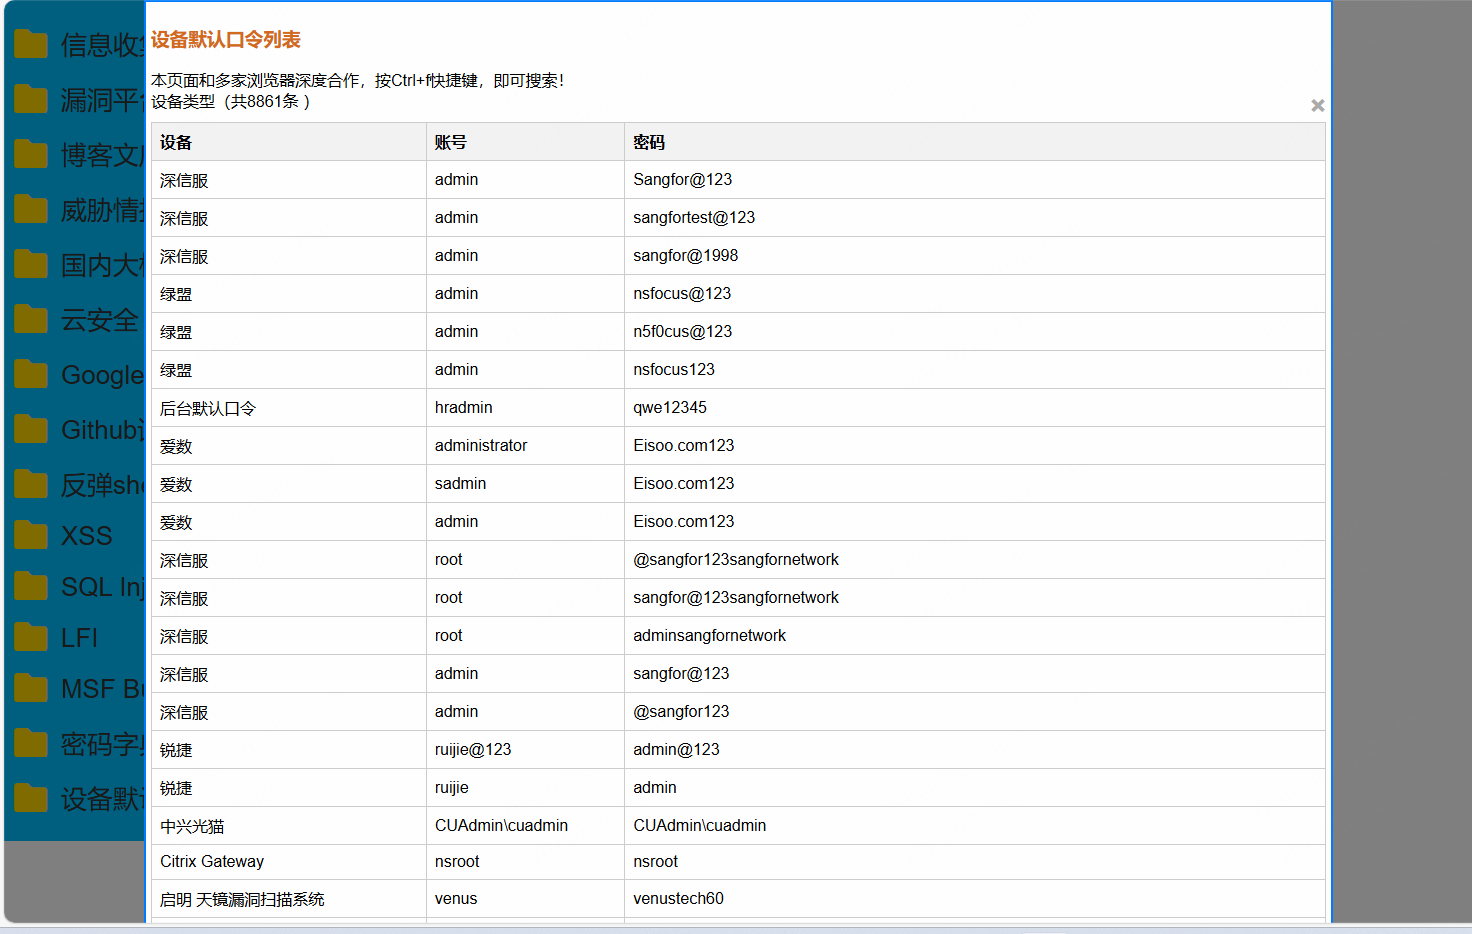
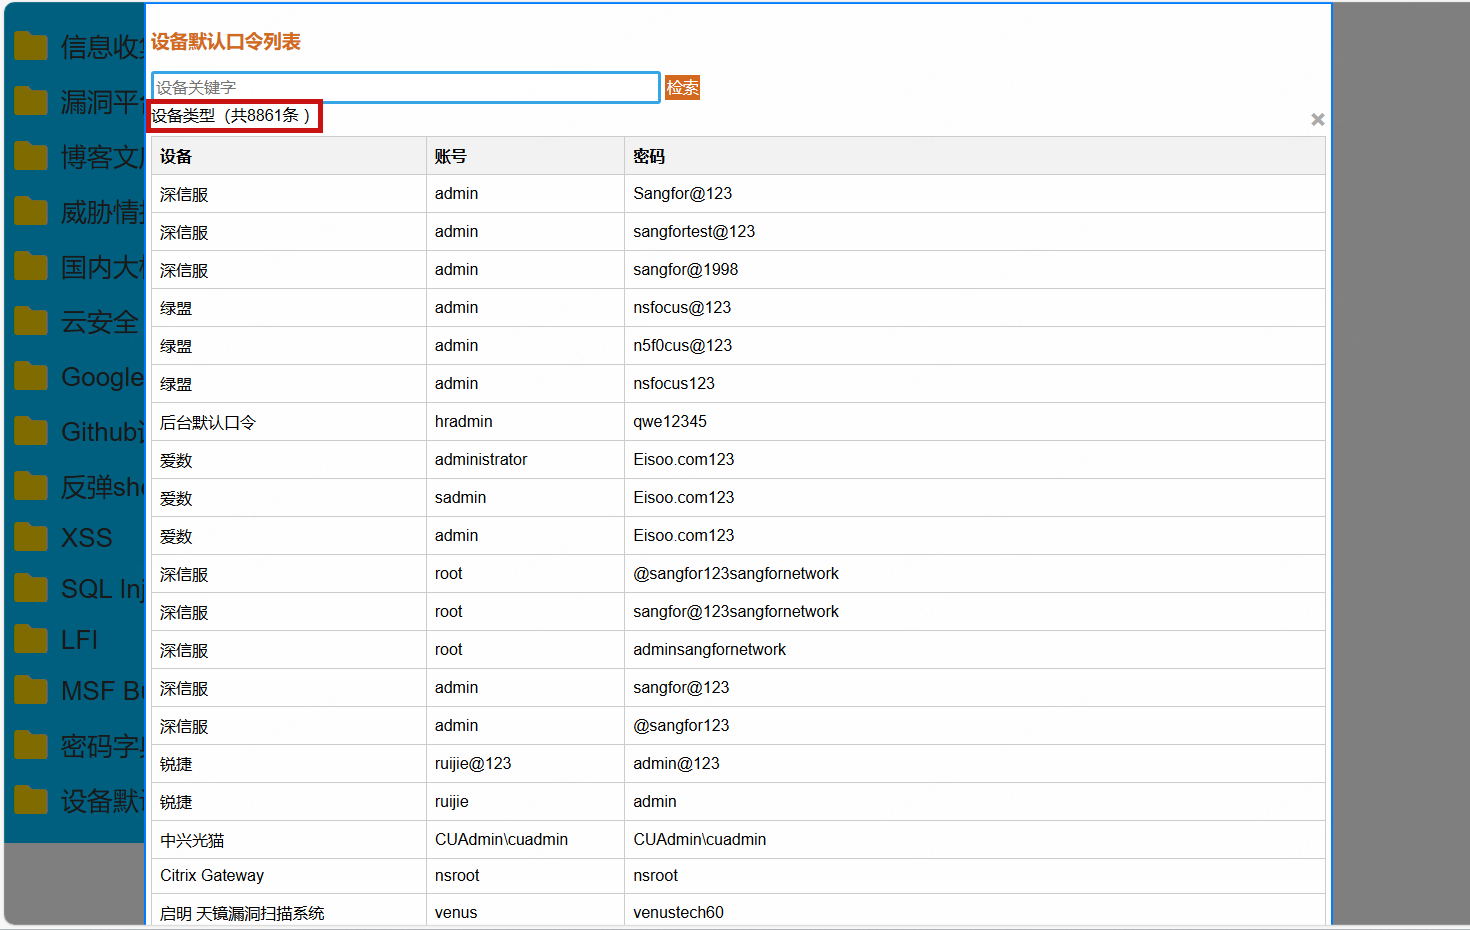
系统优化

Changed region(s): [[0.0, 0.0, 1.0, 1.0]]

diff --git a/static/js/common.js b/static/js/common.js
@@ -2843,3 +2843,51 @@ function closeModal5() {
     var modal5 = document.getElementById("modal5");
     modal5.style.display = "none";
 }
+
+// 通过关键字检索设备口令
+function opendevicepasswordbykeyfunc(){
+    var devicekeyvalue = document.getElementById("devicekeyvalue").value;
+    // 清空表格体中的所有行
+    const tableBody = document.querySelector('#data-table11 tbody');
+    tableBody.innerHTML = '';
+
+    $.ajax({
+        url: '/showdevicepasswordbykey/',
+        method: 'POST',
+        data: {
+            devicekeyvalue: devicekeyvalue
+        },
+        success: function (info) {
+            document.getElementById("deviceid1").innerHTML = info.device_new_list_len;
+
+            const tableBody = document.querySelector('#data-table11 tbody');
+
+            info.device_new_list.forEach(item => {
+                const row = document.createElement('tr'); // 创建新的行
+
+                // 创建单元格并填充数据
+                const idCell = document.createElement('td');
+                idCell.textContent = item.company;
+                row.appendChild(idCell);
+
+                const nameCell = document.createElement('td');
+                nameCell.textContent = item.username;
+                row.appendChild(nameCell);
+
+                const addrCell = document.createElement('td');
+                addrCell.textContent = item.password;
+                row.appendChild(addrCell);
+
+                tableBody.appendChild(row); // 将行添加到表格体中
+            });
+
+        },
+        error: function () {
+
+
+        },
+        complete: function () {
+
+        }
+    })
+}

diff --git a/templates/navigation.html b/templates/navigation.html
@@ -1767,7 +1767,8 @@
 
         <div class="modal-content1">
             <h3>设备默认口令列表</h3>
-            <span>本页面和多家浏览器深度合作，按Ctrl+f快捷键，即可搜索！</span><br>
+            <input type="text" class="my-input3" placeholder="设备关键字" value="" id="devicekeyvalue">
+            <span class="my-span" onclick="opendevicepasswordbykeyfunc()">检索</span><br>
             <span id="deviceid1"></span>
             <span class="close" onclick="closeModal5()">&times;</span>
             <table id="data-table11">

diff --git a/static/css/common.css b/static/css/common.css
@@ -45,12 +45,6 @@
 		}
 
 
-		/* input[type="text"] {
-			height: 40px;
-			width: 700px;
-			font-size: 20px;
-		} */
-
 		.my-input-text {
 			height: 40px;
 			width: 700px;
@@ -402,6 +396,12 @@
 		.my-input {
 			height: 25px;
 			width: 700px;
+			font-size: medium;
+		}
+
+		.my-input3 {
+			height: 25px;
+			width: 500px;
 			font-size: medium;
 		}
 

diff --git a/scan_main_web.py b/scan_main_web.py
@@ -6003,7 +6003,7 @@ def assets_byshodan():
     
 
 
-# 设备口令查看
+# 设备口令查询所有
 @app.route("/showdevicepassword/")
 def showdevicepassword():
     user = session.get('username')
@@ -6012,6 +6012,28 @@ def showdevicepassword():
         message_json = {
             "device_dict":device_dict,
             "device_dict_len":"设备类型（共"+str(len(device_dict))+"条 ）"
+        }
+        return jsonify(message_json)
+    else:
+        return render_template('login.html')
+    
+
+# 设备口令根据关键字查询
+@app.route("/showdevicepasswordbykey/",methods=['POST'])
+def showdevicepasswordbykey():
+    user = session.get('username')
+    if str(user) == main_username:
+        # 定义新的列表用于存放通过关键字检索的结果
+        device_new_list = []
+        devicekeyvalue = request.form['devicekeyvalue']
+        print(devicekeyvalue)
+        device_dict = basic.device_password_show()
+        for key1 in device_dict:
+            if str(devicekeyvalue) in str(key1):
+                device_new_list.append(key1)
+        message_json = {
+            "device_new_list":device_new_list,
+            "device_new_list_len":"设备类型（共"+str(len(device_new_list))+"条 ）"
         }
         return jsonify(message_json)
     else:

diff --git a/readme.md b/readme.md
@@ -464,4 +464,5 @@ icon_hash计算<br>
 shodan收集资产<br>
 <img src="https://raw.githubusercontent.com/huan-cdm/info_scan/main/images/shodancollectasset.png" /><br><br>
 设备默认口令<br>
-<img src="https://raw.githubusercontent.com/huan-cdm/info_scan/main/images/devicepassword.png" /><br><br>
+<img src="https://raw.githubusercontent.com/huan-cdm/info_scan/main/images/devicepassword.png" /><br>
+<img src="https://raw.githubusercontent.com/huan-cdm/info_scan/main/images/devicepasswordbykey.png" /><br><br>
